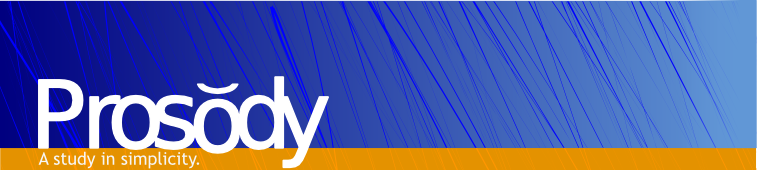
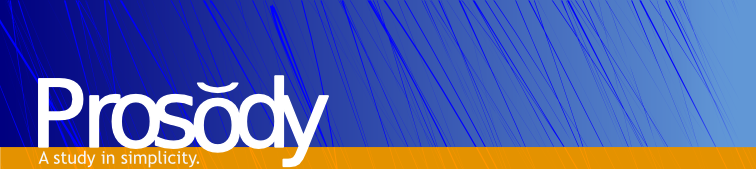
mod_admin_web: Some style fixes

diff --git a/mod_admin_web/admin_web/www_files/css/style.css b/mod_admin_web/admin_web/www_files/css/style.css
@@ -55,9 +55,15 @@ a {
   padding: 0;
 }
 
-#header {
-  height: 170px;
-  background: url(../images/blue_orange.png) repeat-x
+@media screen and (min-width: 757px) {
+  #header {
+    background: url(../images/blue_orange.png) repeat-x
+  }
+}
+
+#header img {
+  max-width: 100%;
+  height: auto
 }
 
 #menu {
@@ -88,6 +94,10 @@ a {
 #menu li a:hover {
   color: #6197DF;
   text-decoration: underline
+}
+
+#selector {
+  display: inline-block
 }
 
 #s2sList h2, #c2sList h2 {
